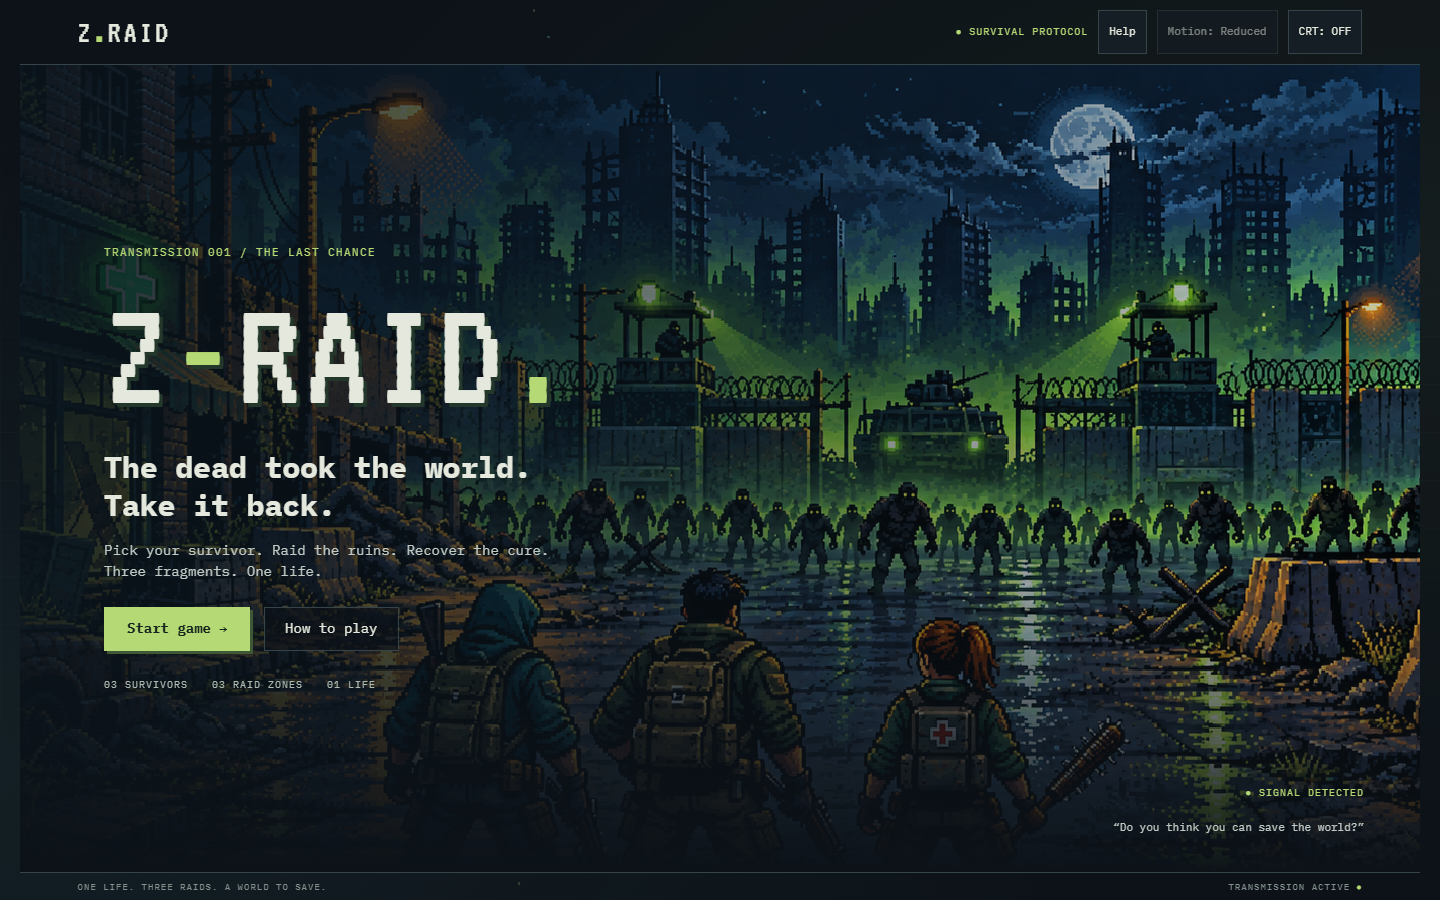
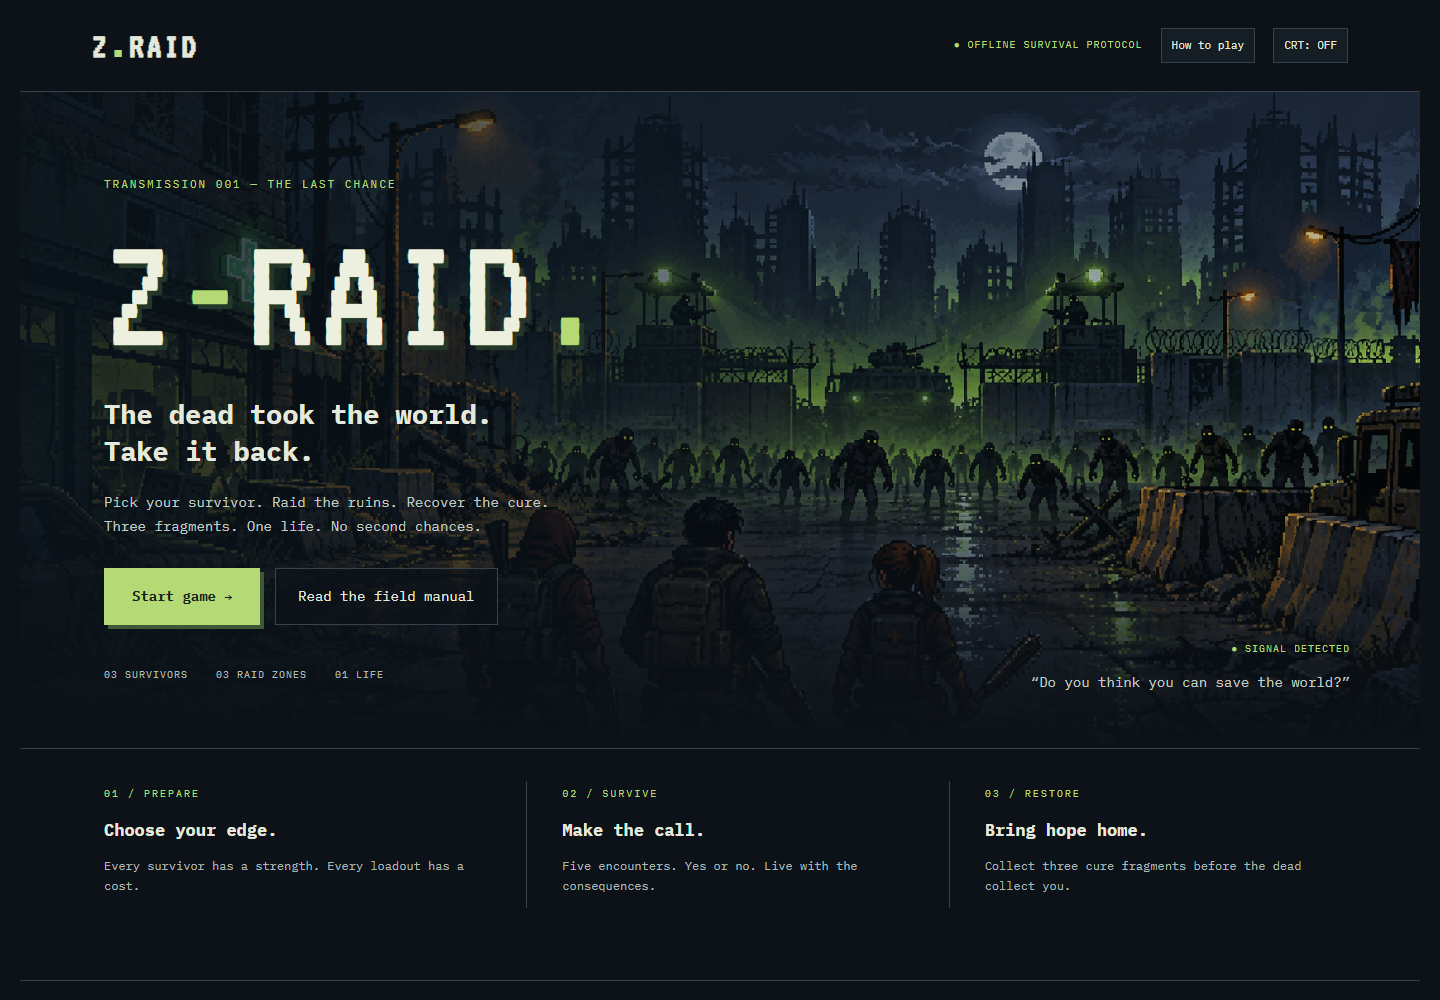
Add files via upload

diff --git a/README.md b/README.md
@@ -5,66 +5,58 @@
 ### One life. Three raids. A world to save.
 
 The dead took the world. **Take it back.**<br>
-A 16-bit-style, text-based survival game where every Yes or No could be your last.
+A 16-bit-style, story-driven survival game. Pick your survivor, raid the ruins, and bring home the cure.
 
 [![Play Z-Raid](https://img.shields.io/badge/PLAY_Z--RAID_%E2%86%97-b5d974?style=for-the-badge&labelColor=0c1218)](https://z-raid.thehawk6353.workers.dev/)
 
 **[Play in your browser ↗](https://z-raid.thehawk6353.workers.dev/)** · No install. No account.
 
-![Z-Raid title screen overlooking a ruined city and zombie horde](assets/preview-menu-motion.png)
+![Updated Z-Raid title screen with a ruined-city backdrop and survival-game controls](ReadME_Assets/menu.png)
 
 </div>
 
 ## 🎒 Gear up. Get out. Get back alive.
 
-1. **Pick your survivor.** Rook brings combat, Echo brings stealth, and Patch brings scavenging. Your choice lasts the whole run.
-2. **Choose your raid.** Explore Mercy Pharmacy, Hollow Metro, or Checkpoint 09 with one weapon and one piece of gear.
-3. **Make the call.** Survive five connected Yes/No encounters in a randomly selected story. Consider the actions, rewards, and damage—“No” isn't a free escape.
-4. **Bring home the cure.** Each completed raid earns a fragment, upgrades your equipment, and raises the danger. Recover all three fragments to win.
+1. **Choose your survivor.** Rook brings combat, Echo brings stealth, and Patch brings scavenging. One choice for the whole run.
+2. **Build your loadout.** Pick a raid zone, one weapon, and one piece of gear. Review your setup before leaving camp.
+3. **Make the call.** Survive five connected Yes/No encounters. Read the action, check your strengths, and weigh the rewards against the damage.
+4. **Recover the cure.** Each completed raid earns a fragment and improves your equipment—but the next raid gets harder. Bring back all three fragments to win.
 
-**Four weapons. Four gear items. Thirty encounters. One life.**<br>
-Collect supplies, recover at camp, and adapt your loadout between raids. Die, and the run is over.
+**3 survivors · 3 raid zones · 4 weapons · 4 gear items · 6 stories**
 
-The game fits the screen without scrolling, starting at iPhone SE size (375 × 667). Browse survivors and confirm your choice, then prepare in four steps: **Location → Weapon → Gear → Review**. Every option remains available; its description appears when selected. Both raid decisions stay visible together. The field manual uses six short pages.
+Raid **Mercy Pharmacy**, **Hollow Metro**, or **Checkpoint 09**. Each zone has two possible five-moment stories, with distinct outcomes shaped by your survivor, equipment, and pursuit.
 
-Loud actions attract a pursuing horde even when they succeed. Quiet routes can shake it off. Pursuit carries into later encounters, making checks tougher and injuries worse. Watch the pursuit tracker and weigh your supplies against the noise; neither Yes nor No is always the quiet option. Camp recovery is limited to 20 health.
+![A current raid encounter showing scene artwork, effective stats, rewards, risks, and pursuit hints](ReadME_Assets/raid.png)
 
-The stat checks, success percentages, and random rolls stay hidden; the probability system still runs behind the scenes.
+### 👣 The dead are listening.
 
-### 🕹 Before you head out
+Loud choices attract a pursuing horde—even when they succeed. Quiet routes can break the trail. More pursuit makes later encounters tougher and injuries worse. Neither “Yes” nor “No” is always the safe choice.
 
-- Play with mouse, touch, or **Tab + Enter/Space**.
-- Combat, stealth, scavenging, and equipment shape your chances. Good odds still aren't a guarantee.
-- The menu has a looping animated backdrop and subtle hover effects. Pixel motes and drifting quarantine fog animate behind every game screen. Toggle **Motion** to pause animation, **CRT** for scanlines, or open **How to play** for the field manual. Reduced-motion settings use a still backdrop and stop ambient animation.
-- Runs aren't saved. Refreshing starts you over.
+Collect supplies, recover limited health at camp, and rethink your equipment between raids. **Die, and the run is over.** Success percentages stay hidden; your decisions still depend on stats and chance.
+
+<details>
+<summary><strong>🎒 A look at loadout selection</strong></summary>
+
+![Four-step preparation with illustrated gear choices and a selected-item description](ReadME_Assets/loadout.png)
+
+</details>
+
+## 🕹 Before you head out
+
+- Play with **mouse, touch, or Tab + Enter/Space**.
+- Read **What happened** and **Gear & pursuit** after a decision to understand the outcome.
+- Toggle **Motion** for animation or **CRT** for a retro display. Reduced-motion preferences are supported.
+- Open **How to play** for the field manual. Runs aren't saved; refreshing starts over.
 
 ## ⚙ Under the hood
 
-Built with **HTML, CSS, and vanilla JavaScript**. Static, browser-based, and free of build tools, runtime libraries, a backend, or a database.
+**HTML, CSS, and vanilla JavaScript**, with illustrated pixel artwork, an animated menu, and ambient effects. Gameplay runs in the browser; there's no backend or database.
 
-| File | What it handles |
-| :--- | :--- |
-| `content.js` | Survivors, locations, equipment, and encounters |
-| `engine.js` | Probability checks, health, upgrades, and run progression |
-| `game.js` | Viewport-aware screens, controls, and paginated instructions |
-| `art.js` | Stylized survivor/equipment illustrations and pixel environment art |
-| `styles.css` | Responsive retro styling, menu motion, and optional CRT effect |
+`content.js` + `stories.js` define the world and narration; `engine.js` handles hidden probability checks, pursuit, health, and progression; `game.js`, `art.js`, and `styles.css` bring the screens and artwork to life. Cloudflare Workers serves the static game.
 
-Each raid randomly selects one of two ordered stories for its location; stat-based probability checks decide outcomes. Google Fonts are optional, with monospace fallbacks. Rule checks and balance simulations run with `node verify.cjs`.
+For local play, download the repo ZIP, extract it, and open **`index.html`**. Or run `python -m http.server 8080` in the folder and visit **[localhost:8080](http://localhost:8080)** (`python3` or `py` also work, depending on your installation).
 
-Implementation details, rules, hosting instructions, and animation tooling are in [DEVELOPMENT.md](DEVELOPMENT.md).
-
-## 💻 Play locally
-
-Download the repo ZIP, extract it, and open **`index.html`** in a modern browser. No installation needed.
-
-Or serve the folder with Python:
-
-```sh
-python -m http.server 8080
-```
-
-Open **[http://localhost:8080](http://localhost:8080)**. Use `python3` or `py` instead of `python` if that's how Python is installed on your machine.
+With Node.js 22+, run `npm test` for rule and story checks. More development and hosting details: **[DEVELOPMENT.md](DEVELOPMENT.md)**.
 
 ---
 
@@ -75,8 +67,3 @@ Open **[http://localhost:8080](http://localhost:8080)**. Use `python3` or `py` i
 [Enter the ruins ↗](https://z-raid.thehawk6353.workers.dev/) · [Matthew Hawkins](https://github.com/Matthew-Hawk)
 
 </div>
-
-
-### Stories in the ruins
-
-Each raid zone now has two connected five-moment stories, picked randomly when you enter. Yes and No have distinct success and failure scenes, with context for your survivor, gear and pursuit. Use **What happened** and **Gear & pursuit** to read the result without scrolling. The difficulty rules remain unchanged.
